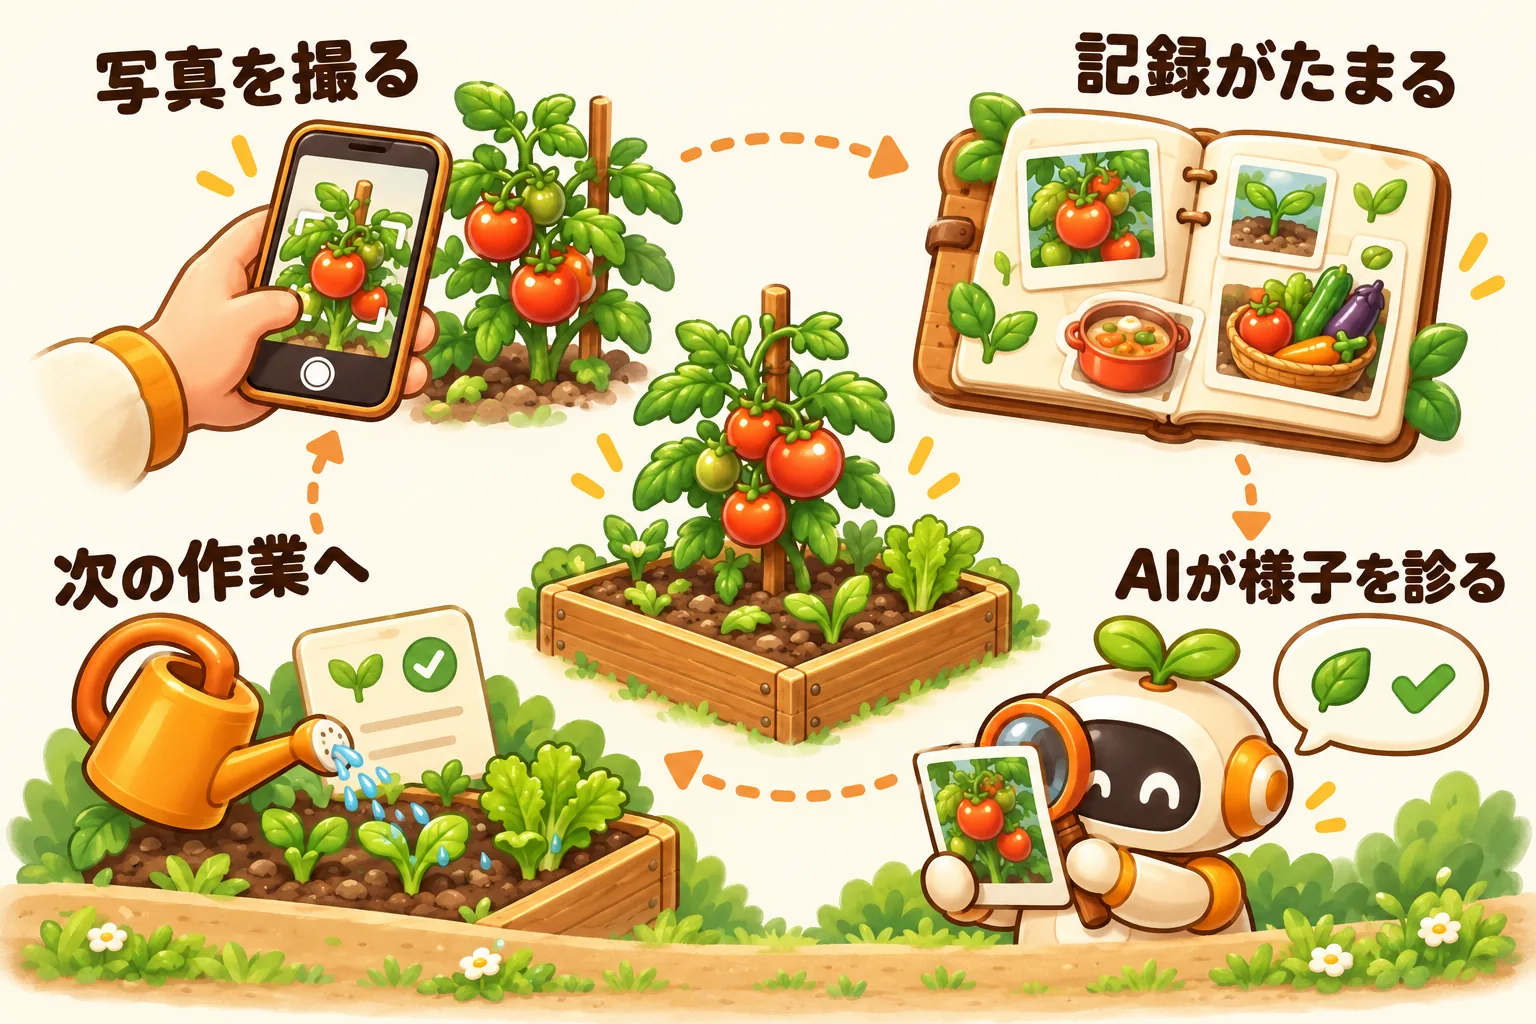
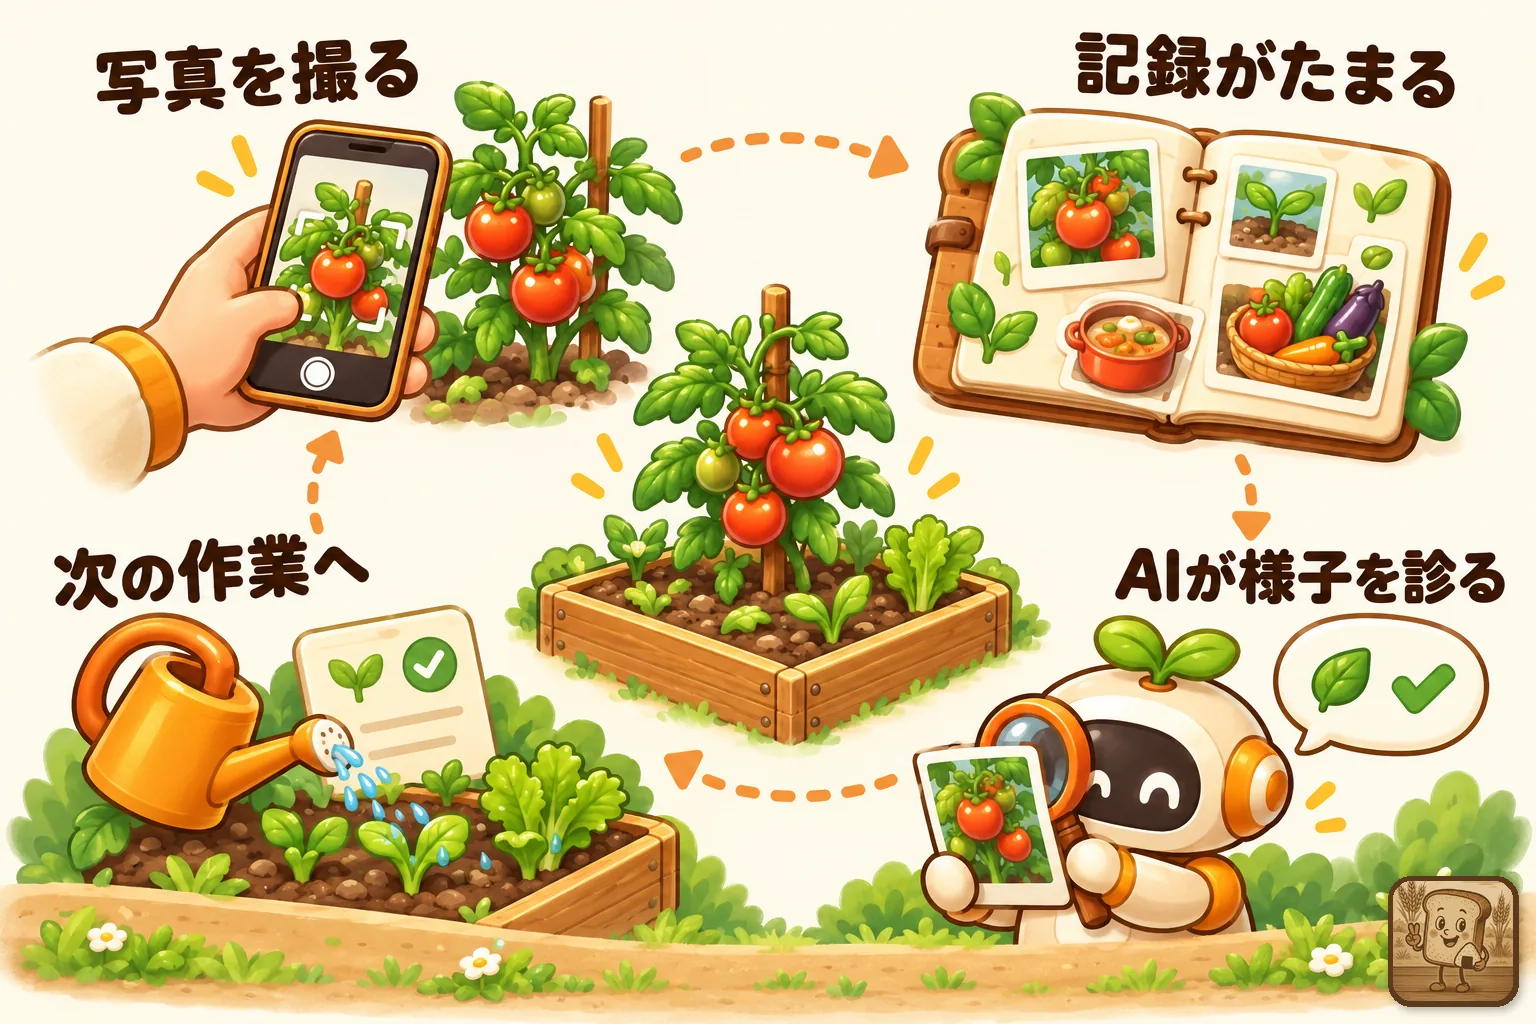
概要の絵の右下に作者のマークを入れる
マークは Codex に描かせると形が変わるので、tools/add_mark.py（Pillow）で
枠付きで重ねる。

Changed region(s): [[0.9062, 0.8438, 1.0, 1.0]]

diff --git a/tools/add_mark.py b/tools/add_mark.py
@@ -1,0 +1,41 @@
+"""README の概要の絵（docs/images/overview.webp）の右下に、枠付きのマークを小さく重ねる。
+
+マークは作者の GitHub のアイコンと同じキャラクター（画像はリポジトリに置いていない）。
+Codex に描かせると形が変わるので、生成後に重ねている。
+
+    uv run --no-project --with pillow python tools/add_mark.py <元の絵.png> <マーク.png> docs/images/overview.webp
+"""
+import sys
+from PIL import Image, ImageDraw, ImageFilter
+
+base_path, mark_path, out_path = sys.argv[1:4]
+SIZE = 120      # マークの一辺（px、1536 幅の絵に対して）
+BORDER = 5      # 枠の太さ
+RADIUS = 18     # 角の丸み
+MARGIN = 18     # 絵の端からの距離
+BROWN = (92, 58, 30, 255)  # アイコンの輪郭に近い濃い茶色
+
+base = Image.open(base_path).convert('RGBA')
+mark = Image.open(mark_path).convert('RGBA').resize((SIZE, SIZE), Image.LANCZOS)
+
+outer = SIZE + BORDER * 2
+x = base.width - outer - MARGIN
+y = base.height - outer - MARGIN
+
+# うっすら影
+shadow = Image.new('RGBA', base.size, (0, 0, 0, 0))
+ImageDraw.Draw(shadow).rounded_rectangle(
+    (x + 3, y + 4, x + outer + 3, y + outer + 4), RADIUS + BORDER, fill=(0, 0, 0, 70))
+base = Image.alpha_composite(base, shadow.filter(ImageFilter.GaussianBlur(4)))
+
+# 枠（角丸の茶色）
+frame = Image.new('RGBA', base.size, (0, 0, 0, 0))
+ImageDraw.Draw(frame).rounded_rectangle((x, y, x + outer, y + outer), RADIUS + BORDER, fill=BROWN)
+base = Image.alpha_composite(base, frame)
+
+# マーク（角丸で切り抜き）
+mask = Image.new('L', (SIZE, SIZE), 0)
+ImageDraw.Draw(mask).rounded_rectangle((0, 0, SIZE - 1, SIZE - 1), RADIUS, fill=255)
+base.paste(mark, (x + BORDER, y + BORDER), mask)
+
+base.convert('RGB').save(out_path, 'WEBP', quality=82, method=6)

diff --git a/docs/image-generation.md b/docs/image-generation.md
@@ -59,7 +59,8 @@ $cx = (Get-ChildItem "$env:LOCALAPPDATA\OpenAI\Codex\bin\*\codex.exe" | Sort-Obj
 - **日本語の文字もきれいに入る**: 「写真を撮る」などの短い言葉を4つ、`exactly these short Japanese labels` と書いて番号付きで並べたら、3枚とも誤字・崩れなし。言葉の無い版も作って比べたが、AI のお手伝い役（ロボット）が何者かは言葉がないと伝わりにくく、言葉ありを採用した
 - **構図は場所まで指示する**: 最初の版（左から右へ4場面）は下の 3 分の 1 が畑の風景だけになった。「4場面を時計回り（左上・右上・右下・左下）、真ん中に畝、下の地面は高さの1割まで」と書いたら、一周する形で場面が大きくなった
 - 1枚 約2〜3%（5時間枠）。3枚で 8% だった
-- 2MB の PNG は WebP（品質 82）にして約 190KB にした
+- 右下の枠付きのマーク（作者の GitHub のアイコンと同じキャラクター）は Codex に描かせず、生成後に `tools/add_mark.py`（Pillow）で重ねた。Codex に渡すと描き直されて形が変わるため。マークの画像はリポジトリに置いていない
+- 2MB の PNG は WebP（品質 82）にして約 190KB にした（`tools/add_mark.py` が WebP で書き出す）
 - 「言葉なし」と頼むと、Codex が指示を自分で書き直して（`*.prompt.txt` に残る）文字を徹底して消した
 
 ## 絵柄（既存アイコンの特徴）
